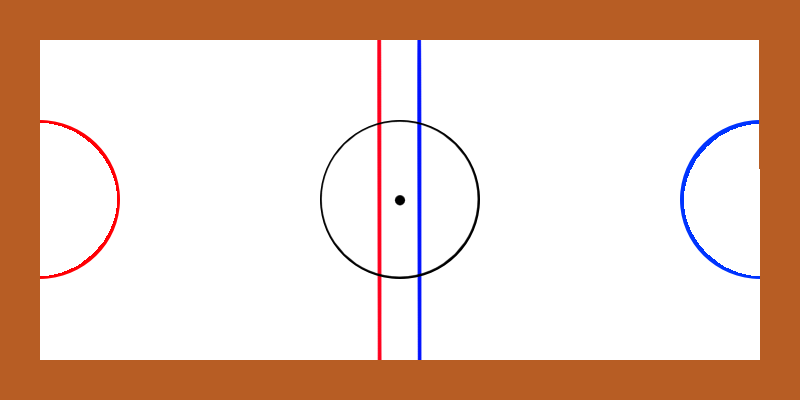
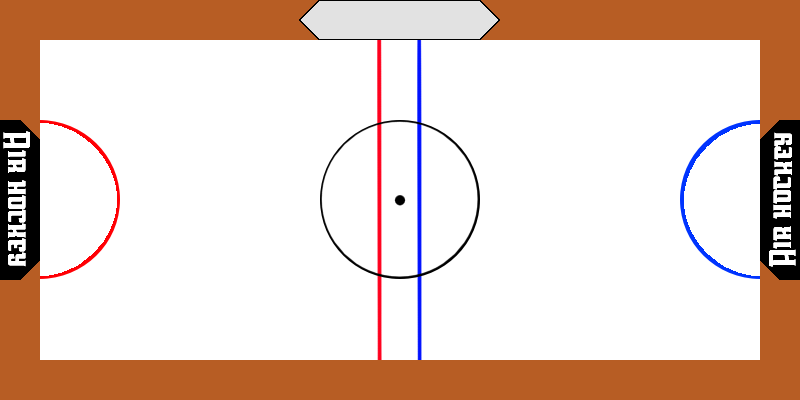
add bg image

Changed region(s): [[0.375, 0.0, 0.625, 0.12], [0.9375, 0.3, 1.0, 0.72], [0.0, 0.3, 0.0625, 0.72]]

diff --git a/public/sketch.js b/public/sketch.js
@@ -26,7 +26,7 @@ function setup() {
   socketClient = io.connect('http://localhost:3000');
   alert=null;
   input = createInput();
-  input.position((width/2), 50);
+  input.position((width/2)-100, 50);
 
   button = createButton('submit');
   button.position(input.x + input.width, 50);
@@ -52,11 +52,11 @@ function setup() {
   function stanzaPiena(id,room){
     console.log('gnaaaaaaaaaaa');
     input = createInput();
-  input.position((width/2), 50);
+  input.position((width/2)-100, 50);
 
   alert = createElement('h2', "la stanza "+ room + " è piena");
-  alert.position((width/2),50+20);
-  textAlign(CENTER);
+  alert.position((width/2)-100,150);
+  //textAlign(CENTER);
   textSize(50);
 
   button = createButton('submit');
@@ -169,6 +169,10 @@ function draw() {
   groundT.show();
   groundB.show(); 
 
+  //disegna le porte
+  porta1.show();
+  porta2.show();
+
   background(bg);
 
 //stato 1: login effettuato visualizzazione del campo di gioco
@@ -188,15 +192,11 @@ if(state==1){
   textSize(32);
   textFont('arial');
   fill(0);
-  text(punteggio1 + " SCORE " + punteggio2, (width / 2)-80, 35)
+  text(punteggio1 + " SCORE " + punteggio2, (width / 2)-83, 35)
 
   //raggiunto punteggio massimo fine partita
   if(punteggio1==10 || punteggio2==10)
     state=2;
-
-  //disegna le porte
-  porta1.show();
-  porta2.show();
 
   //disegna il disco
   disco.show();
@@ -218,8 +218,8 @@ if(state==1){
     textSize(24);
     textFont('AwmU Demo');
     fill(0);      
-    text('Air Hockey',(width/2),100 );
-    text('Online',(width/2)+44,126 );
+    text('Air Hockey',(width/2)-80,100 );
+    text('Online',(width/2)-80+44,126 );
   }
   else if(state ==2){
     background(0,200,200);
@@ -227,10 +227,10 @@ if(state==1){
     fill(0);
     textFont('AwmU Demo');
     if(punteggio1==10 && socketClient.id==player1.id)
-      text('Hai vinto',(width/2),100 );
+      text('Hai vinto',(width/2)-100,100 );
     else if(punteggio2==10 && socketClient.id==player2.id)
-      text('Hai vinto',(width/2),100 );
+      text('Hai vinto',(width/2)-100,100 );
     else
-    text('Hai perso',(width/2),100 );  
+    text('Hai perso',(width/2)-100,100 );  
   }
 }
